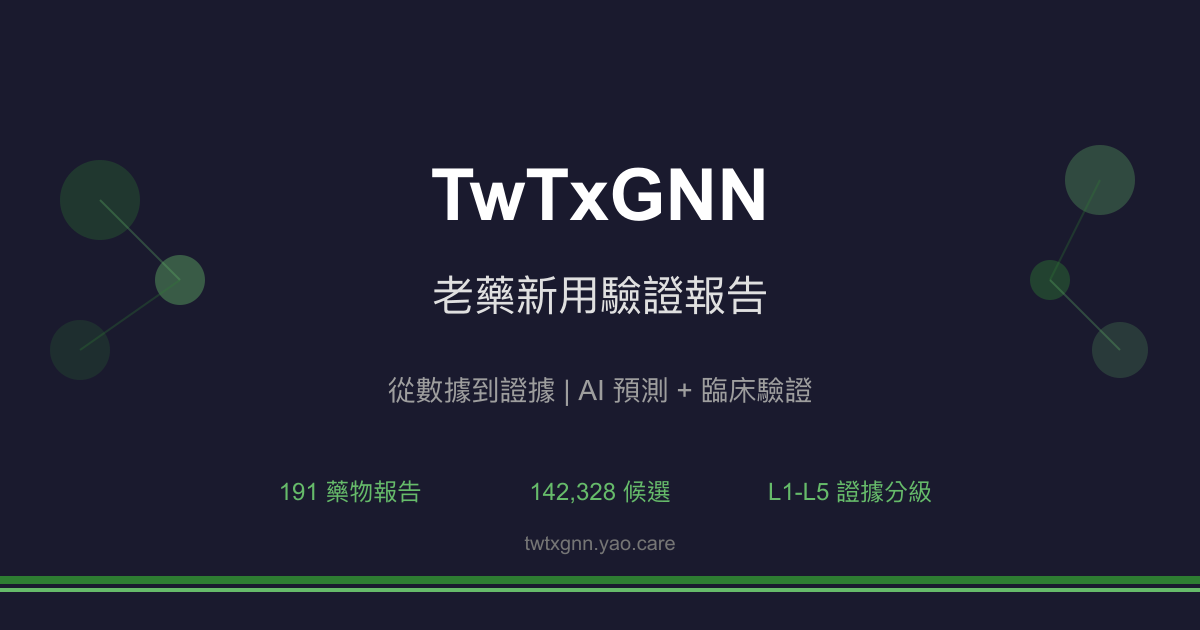
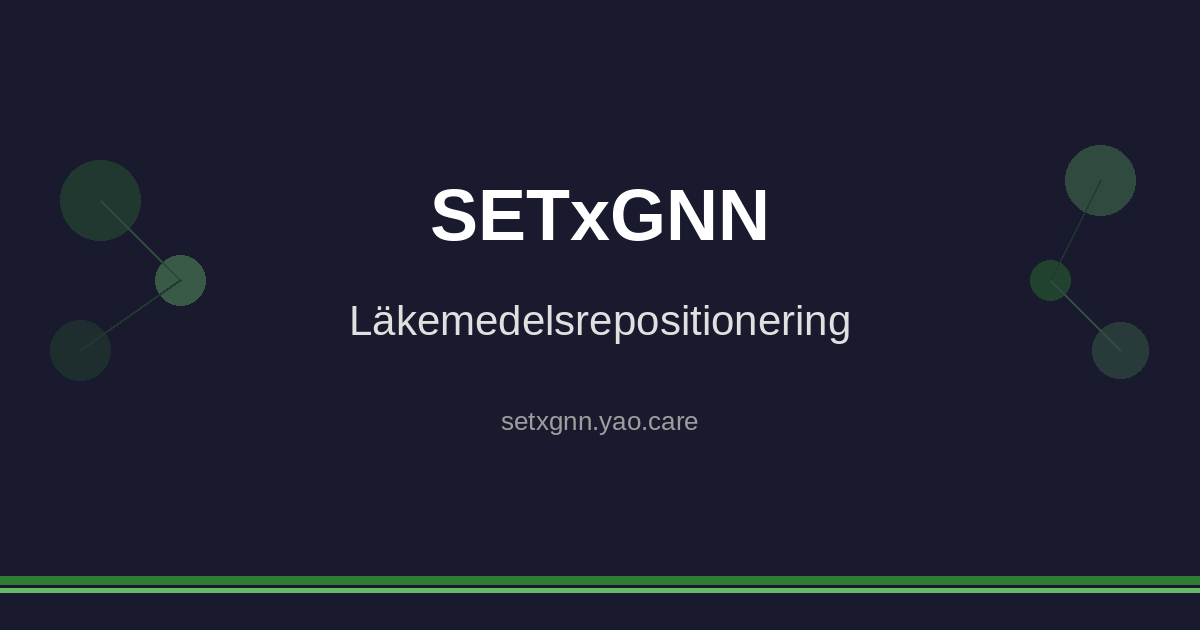
fix: 移除照抄 TwTxGNN 的內容（og 圖、分享按鈕）
- og-default.png／svg：原檔是 TwTxGNN 的圖（TwTxGNN、191 藥物報告、142,328 候選、twtxgnn.yao.care）。
  改由母 repo .claude/gen_og_image.py 產生本站圖：只放站名、網域、本站語言的一行副標（取自 _config.yml title），不放數字。
- assets/images/README.md：設計要求裡的「TwTxGNN」與標語改成本站實際內容，註明產生方式。
- _includes/social-share.html：X hashtag 與 mailto 主旨的 TwTxGNN → SETxGNN；推文與郵件內文原為中文「老藥新用驗證報告」，按鈕文字原為英文，改成本站語言。（此 include 目前沒有頁面引用，先修正以免日後啟用時帶出 Tw 字樣。）

Claude-Session: https://claude.ai/code/session_013aGXmRzC9hmsD5XtZ9FusM

diff --git a/docs/_includes/social-share.html b/docs/_includes/social-share.html
@@ -1,14 +1,14 @@
-<!-- 學術分享按鈕 -->
+<!-- Share buttons -->
 <div class="social-share" style="margin: 2rem 0; padding: 1.25rem; background: #f8f9fa; border-radius: 8px; border: 1px solid #e0e0e0;">
-  <strong style="display: block; margin-bottom: 0.75rem; color: #333;">Share this report:</strong>
+  <strong style="display: block; margin-bottom: 0.75rem; color: #333;">Dela den här rapporten:</strong>
   <div style="display: flex; gap: 0.5rem; flex-wrap: wrap;">
     <!-- Twitter/X -->
-    <a href="https://twitter.com/intent/tweet?text={{ page.title | url_encode }}%20%E8%80%81%E8%97%A5%E6%96%B0%E7%94%A8%E9%A9%97%E8%AD%89%E5%A0%B1%E5%91%8A&url={{ page.url | absolute_url | url_encode }}&hashtags=DrugRepurposing,TwTxGNN"
+    <a href="https://twitter.com/intent/tweet?text={{ page.title | url_encode }}%20Rapport%20om%20l%C3%A4kemedelsrepositionering&url={{ page.url | absolute_url | url_encode }}&hashtags=DrugRepurposing,SETxGNN"
        target="_blank" rel="noopener noreferrer"
        style="display: inline-flex; align-items: center; gap: 0.375rem; padding: 0.5rem 1rem; background: #000; color: white; text-decoration: none; border-radius: 6px; font-size: 0.9rem; font-weight: 500; transition: opacity 0.2s;"
        onmouseover="this.style.opacity='0.8'" onmouseout="this.style.opacity='1'">
       <svg width="16" height="16" fill="currentColor" viewBox="0 0 24 24"><path d="M18.244 2.25h3.308l-7.227 8.26 8.502 11.24H16.17l-5.214-6.817L4.99 21.75H1.68l7.73-8.835L1.254 2.25H8.08l4.713 6.231zm-1.161 17.52h1.833L7.084 4.126H5.117z"/></svg>
-      Share on X
+      Dela på X
     </a>
 
     <!-- LinkedIn -->
@@ -20,16 +20,16 @@
       LinkedIn
     </a>
 
-    <!-- 複製連結 -->
+    <!-- Copy link -->
     <button onclick="copyReportLink(this)"
             style="display: inline-flex; align-items: center; gap: 0.375rem; padding: 0.5rem 1rem; background: #6c757d; color: white; border: none; border-radius: 6px; cursor: pointer; font-size: 0.9rem; font-weight: 500; transition: all 0.2s;"
             onmouseover="this.style.background='#5a6268'" onmouseout="this.style.background='#6c757d'">
       <svg width="16" height="16" fill="currentColor" viewBox="0 0 24 24"><path d="M16 1H4c-1.1 0-2 .9-2 2v14h2V3h12V1zm3 4H8c-1.1 0-2 .9-2 2v14c0 1.1.9 2 2 2h11c1.1 0 2-.9 2-2V7c0-1.1-.9-2-2-2zm0 16H8V7h11v14z"/></svg>
-      <span>Copy link</span>
+      <span>Kopiera länk</span>
     </button>
 
     <!-- Email -->
-    <a href="mailto:?subject={{ page.title | url_encode }}%20-%20TwTxGNN&body=%E6%8E%A8%E8%96%A6%E9%80%99%E4%BB%BD%E8%80%81%E8%97%A5%E6%96%B0%E7%94%A8%E9%A9%97%E8%AD%89%E5%A0%B1%E5%91%8A%EF%BC%9A%0A%0A{{ page.url | absolute_url | url_encode }}"
+    <a href="mailto:?subject={{ page.title | url_encode }}%20-%20SETxGNN&body=Rekommenderad%20rapport%20om%20l%C3%A4kemedelsrepositionering%3A%0A%0A{{ page.url | absolute_url | url_encode }}"
        style="display: inline-flex; align-items: center; gap: 0.375rem; padding: 0.5rem 1rem; background: #EA4335; color: white; text-decoration: none; border-radius: 6px; font-size: 0.9rem; font-weight: 500; transition: opacity 0.2s;"
        onmouseover="this.style.opacity='0.8'" onmouseout="this.style.opacity='1'">
       <svg width="16" height="16" fill="currentColor" viewBox="0 0 24 24"><path d="M20 4H4c-1.1 0-1.99.9-1.99 2L2 18c0 1.1.9 2 2 2h16c1.1 0 2-.9 2-2V6c0-1.1-.9-2-2-2zm0 4l-8 5-8-5V6l8 5 8-5v2z"/></svg>
@@ -44,7 +44,7 @@ function copyReportLink(btn) {
   navigator.clipboard.writeText(url).then(() => {
     const span = btn.querySelector('span');
     const originalText = span.textContent;
-    span.textContent = 'Copied!';
+    span.textContent = 'Kopierad!';
     btn.style.background = '#28a745';
     setTimeout(() => {
       span.textContent = originalText;

diff --git a/docs/assets/images/README.md b/docs/assets/images/README.md
@@ -15,11 +15,15 @@ nav_exclude: true
 
 ### 設計要求
 
-1. 包含網站名稱「TwTxGNN」
-2. 包含標語「老藥新用，從數據到證據」
-3. 簡潔、專業風格
-4. 背景純色或簡單圖案
+1. 包含網站名稱「SETxGNN」與網域
+2. 包含該站語言的一行副標（取自 _config.yml 的 title）
+3. 不放藥物數、候選數等數字（會過期）
+4. 簡潔、專業風格
 5. 適合在社群媒體預覽顯示
+
+### 產生方式
+
+由 TxGNN 母 repo 的 `.claude/gen_og_image.py` 產生（同時輸出 og-default.svg）。
 
 ### 使用位置
 
